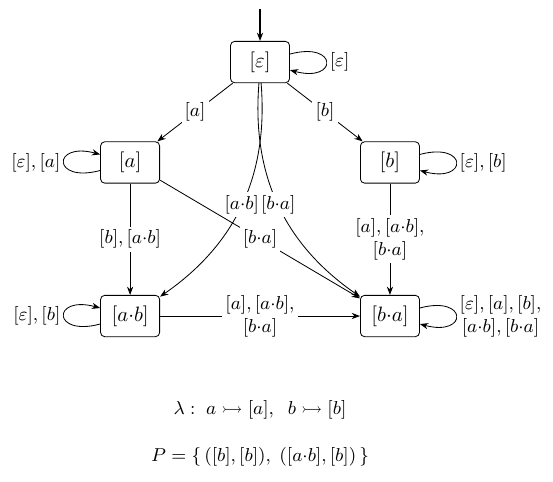
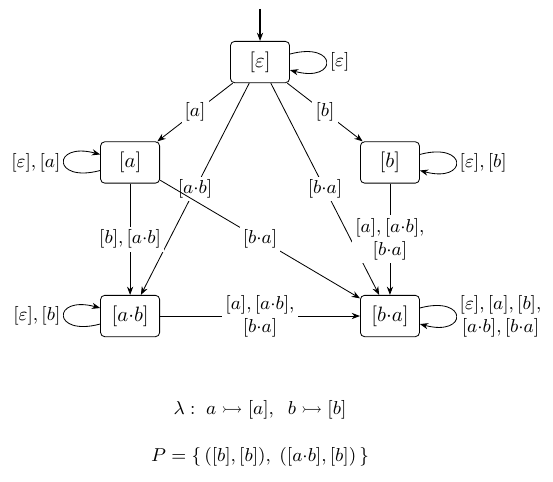
viz: a detour is for a node standing ON the line, and it is a bezier
The grazing rule was too broad: any arrow passing near any node bent, which bent
figures that had nothing wrong with them. An arrow detours only when its endpoints
share a row or a column and a third node of that row/column lies strictly BETWEEN
them -- a node it would run through, not one it passes by. F0/F1/F2 now detour
nothing; F3 detours three arrows.

The detour itself is a bezier, not a bend: it leaves the source outward (away from
the middle of the figure), runs parallel to the row or column it skips, and dives
back in at the target -- out=in on the same heading, so both turns stay gentle.
Looseness is how far out it swings; an anti-parallel pair takes two values so its
arcs do not coincide.

sos_core_figs F1: nodes spread wider (columns 0/3.4/6.8, rows 1.2/-2.4) -- the full
table's labels needed the room.

diff --git a/sosl/sosl/sos/viz/tikz.py b/sosl/sosl/sos/viz/tikz.py
@@ -36,12 +36,13 @@ LOOP_DIRS: Tuple[Tuple[str, Tuple[float, float]], ...] = (
 CROWD_CM = 2.6
 # How far an anti-parallel pair of arrows bends apart (both bend left).
 BEND_ANGLE = 15
-# A straight arrow passing within this of a THIRD node (cm) runs over that node, or
-# over its self-loop and label; it is bent around instead. Half a node box plus the
-# room a loop and its label take on the far side of it.
-CLEAR_CM = 1.3
-# How far such an arrow arcs out to clear the node it would otherwise cross.
-DETOUR_ANGLE = 30
+# Two nodes count as sharing a row / a column when their y / x differ by less than
+# this (cm) — coordinates are hand-rounded, so exact equality is too strict.
+ALIGN_CM = 0.3
+# How far out a detour swings: the `looseness` of its bezier. An anti-parallel pair
+# of detours takes the two values, so the arcs do not lie on top of each other.
+LOOSENESS = 1.7
+LOOSENESS_FAR = 2.5
 # How far under the lowest node the P caption sits (cm).
 PAIRS_DROP_CM = 1.3
 # Extra drop when a bottom node's self-loop hangs below it: the loop and its label
@@ -123,35 +124,42 @@ def _loop_dir(fig: Figure, pos: Placement, cls: int) -> str:
     return sorted(scored)[0][2]
 
 
-def _detour(fig: Figure, pos: Placement, src: int, dst: int) -> Optional[str]:
-    """The `bend` option an arrow needs to clear a THIRD node it would otherwise run
-    across, or None when its straight line is free.
-
-    A node blocks when it sits within `CLEAR_CM` of the segment and *between* the
-    endpoints (its projection falls strictly inside them — a node behind either end
-    is not in the way). The arrow arcs away from it: TikZ bends left towards the
-    left of the direction of travel, so a blocker on the left is passed by bending
-    right, and vice versa. The nearest blocker decides."""
+def _blocked(fig: Figure, pos: Placement, src: int, dst: int) -> bool:
+    """Is a node sitting ON the straight line between ``src`` and ``dst``? Only the
+    aligned case counts — the two share a row or a column (to `ALIGN_CM`) and a third
+    node of that row/column lies strictly between them. That is a node the arrow
+    would run *through*; an arrow merely passing near one is left alone."""
     (px, py), (qx, qy) = pos[src], pos[dst]
-    ux, uy = qx - px, qy - py
-    span = (ux * ux + uy * uy) ** 0.5
-    if span == 0:
-        return None
-    blockers: List[Tuple[float, float]] = []          # (distance, side)
+    same_row, same_col = abs(py - qy) < ALIGN_CM, abs(px - qx) < ALIGN_CM
+    if not (same_row or same_col):
+        return False
     for nd in fig.nodes:
         if nd.cls in (src, dst):
             continue
-        vx, vy = pos[nd.cls][0] - px, pos[nd.cls][1] - py
-        along = (vx * ux + vy * uy) / span            # projection onto the segment
-        if not 0.0 < along < span:
-            continue
-        cross = (ux * vy - uy * vx) / span            # signed distance, + = left
-        if abs(cross) < CLEAR_CM:
-            blockers.append((abs(cross), cross))
-    if not blockers:
-        return None
-    _, cross = min(blockers)
-    return f"bend {'right' if cross > 0 else 'left'}={DETOUR_ANGLE}"
+        x, y = pos[nd.cls]
+        if same_row and abs(y - py) < ALIGN_CM and min(px, qx) < x < max(px, qx):
+            return True
+        if same_col and abs(x - px) < ALIGN_CM and min(py, qy) < y < max(py, qy):
+            return True
+    return False
+
+
+def _detour(fig: Figure, pos: Placement, src: int, dst: int, far: bool) -> str:
+    """The `to[...]` option of an arrow that must go around a node standing between
+    its endpoints: a bezier that leaves the source *outward* (away from the middle of
+    the figure), runs parallel to the row or column it is skipping, and dives back in
+    at the target. Leaving and arriving on the same outward heading is what keeps the
+    two turns gentle; `looseness` is how far out the arc swings, and an anti-parallel
+    pair takes the two values so its arcs do not coincide."""
+    cx = sum(p[0] for p in pos.values()) / len(pos)
+    cy = sum(p[1] for p in pos.values()) / len(pos)
+    (px, py), (qx, qy) = pos[src], pos[dst]
+    if abs(py - qy) < ALIGN_CM:                       # a row: swing above or below
+        angle = 90 if py >= cy else -90
+    else:                                             # a column: swing left or right
+        angle = 180 if px <= cx else 0
+    loose = LOOSENESS_FAR if far else LOOSENESS
+    return f"out={angle},in={angle},looseness={loose}"
 
 
 def _arrows(fig: Figure) -> "List[Arrow]":
@@ -248,14 +256,19 @@ def tikz_of(fig: Figure, pos: Placement, provenance: str, pairs: bool = True,
     out.append("")
 
     loops = loops or {}
+    rank = {nd.cls: i for i, nd in enumerate(fig.nodes)}
     for ar in _arrows(fig):
         if ar.is_loop:
             via = f"[{loops.get(ar.src) or _loop_dir(fig, pos, ar.src)}]"
+        elif _blocked(fig, pos, ar.src, ar.dst):
+            # a node stands between the endpoints: go around it, the back arrow of an
+            # anti-parallel pair swinging wider so the two arcs stay apart
+            far = ar.bend and rank[ar.src] > rank[ar.dst]
+            via = f"[{_detour(fig, pos, ar.src, ar.dst, far)}]"
         elif ar.bend:                    # anti-parallel: both bend left, splitting
             via = f"[bend left={BEND_ANGLE}]"
-        else:                            # straight, unless a third node is in the way
-            detour = _detour(fig, pos, ar.src, ar.dst)
-            via = f"[{detour}]" if detour else ""
+        else:
+            via = ""
         src, dst = fig.node_of(ar.src).ident, fig.node_of(ar.dst).ident
         out.append(f"  \\draw[arrow] ({src}) to{via} "
                    f"node[lbl] {{{_tex_arrow_label(fig, ar.cols)}}} ({dst});")

diff --git a/research_notes/sos_core_figs/sources/core_F1_gf_aa.tex b/research_notes/sos_core_figs/sources/core_F1_gf_aa.tex
@@ -16,18 +16,18 @@
   pairs/.style     = {anchor=north, font=\small},
 ]
 
-  \node[class] (a) at (0.0,0.9) {$[a]$};
-  \node[class] (b) at (5.2,0.9) {$[b]$};
-  \node[class] (aa) at (0.0,-1.7) {$[a{\cdot}a]$};
-  \node[class] (ab) at (2.6,0.9) {$[a{\cdot}b]$};
-  \node[class] (ba) at (5.2,-1.7) {$[b{\cdot}a]$};
+  \node[class] (a) at (0.0,1.2) {$[a]$};
+  \node[class] (b) at (6.8,1.2) {$[b]$};
+  \node[class] (aa) at (0.0,-2.4) {$[a{\cdot}a]$};
+  \node[class] (ab) at (3.4,1.2) {$[a{\cdot}b]$};
+  \node[class] (ba) at (6.8,-2.4) {$[b{\cdot}a]$};
 
   \draw[arrow] (a) to node[lbl] {$[a],[a{\cdot}a],$\\$[a{\cdot}b]$} (aa);
   \draw[arrow] (a) to[bend left=15] node[lbl] {$[b]$} (ab);
   \draw[arrow] (a) to[loop left] node[lbl] {$[b{\cdot}a]$} (a);
   \draw[arrow] (b) to[bend left=15] node[lbl] {$[a],[b{\cdot}a]$} (ba);
   \draw[arrow] (b) to[loop right] node[lbl] {$[b],[a{\cdot}b]$} (b);
-  \draw[arrow] (b) to[bend left=30] node[lbl] {$[a{\cdot}a]$} (aa);
+  \draw[arrow] (b) to node[lbl] {$[a{\cdot}a]$} (aa);
   \draw[arrow] (aa) to[loop left] node[lbl] {$[a],[b],$\\$[a{\cdot}a],[a{\cdot}b],$\\$[b{\cdot}a]$} (aa);
   \draw[arrow] (ab) to[bend left=15] node[lbl] {$[a],[b{\cdot}a]$} (a);
   \draw[arrow] (ab) to[loop right] node[lbl] {$[b],[a{\cdot}b]$} (ab);
@@ -36,7 +36,7 @@
   \draw[arrow] (ba) to[bend left=15] node[lbl] {$[b]$} (b);
   \draw[arrow] (ba) to[loop right] node[lbl] {$[b{\cdot}a]$} (ba);
 
-  \node[pairs] at (2.6,-3.0) {$\lambda:\; a \rightarrowtail [a],\;\; b \rightarrowtail [b]$};
-  \node[pairs] at (2.6,-3.8) {$P = \{\, ([a{\cdot}a],[a{\cdot}a]) \,\}$};
+  \node[pairs] at (3.4,-3.7) {$\lambda:\; a \rightarrowtail [a],\;\; b \rightarrowtail [b]$};
+  \node[pairs] at (3.4,-4.5) {$P = \{\, ([a{\cdot}a],[a{\cdot}a]) \,\}$};
 \end{tikzpicture}
 \end{document}

diff --git a/research_notes/sos_core_figs/sources/core_F3_evenblocks.tex b/research_notes/sos_core_figs/sources/core_F3_evenblocks.tex
@@ -27,20 +27,20 @@
   \draw[arrow] (a) to[bend left=15] node[lbl] {$[a]$} (aa);
   \draw[arrow] (a) to node[lbl] {$[b]$} (ab);
   \draw[arrow] (a) to[loop above] node[lbl] {$[a{\cdot}a]$} (a);
-  \draw[arrow] (a) to[bend left=30] node[lbl] {$[a{\cdot}b]$} (b);
-  \draw[arrow] (a) to[bend left=30] node[lbl] {$[b{\cdot}a]$} (aba);
-  \draw[arrow] (a) to[bend right=30] node[lbl] {$[a{\cdot}b{\cdot}a]$} (ba);
+  \draw[arrow] (a) to[out=90,in=90,looseness=1.7] node[lbl] {$[a{\cdot}b]$} (b);
+  \draw[arrow] (a) to[out=180,in=180,looseness=1.7] node[lbl] {$[b{\cdot}a]$} (aba);
+  \draw[arrow] (a) to node[lbl] {$[a{\cdot}b{\cdot}a]$} (ba);
   \draw[arrow] (a) to node[lbl] {$[b{\cdot}a{\cdot}b]$} (bab);
   \draw[arrow] (b) to[bend left=15] node[lbl] {$[a],[b{\cdot}a]$} (ba);
   \draw[arrow] (b) to[loop above] node[lbl] {$[b],[a{\cdot}a]$} (b);
-  \draw[arrow] (b) to[bend left=30] node[lbl] {$[a{\cdot}b],$\\$[a{\cdot}b{\cdot}a],$\\$[b{\cdot}a{\cdot}b]$} (bab);
+  \draw[arrow] (b) to[out=0,in=0,looseness=1.7] node[lbl] {$[a{\cdot}b],$\\$[a{\cdot}b{\cdot}a],$\\$[b{\cdot}a{\cdot}b]$} (bab);
   \draw[arrow] (aa) to[bend left=15] node[lbl] {$[a]$} (a);
   \draw[arrow] (aa) to node[lbl] {$[b]$} (b);
   \draw[arrow] (aa) to[loop above] node[lbl] {$[a{\cdot}a]$} (aa);
   \draw[arrow] (aa) to node[lbl] {$[a{\cdot}b]$} (ab);
   \draw[arrow] (aa) to node[lbl] {$[b{\cdot}a]$} (ba);
-  \draw[arrow] (aa) to[bend left=30] node[lbl] {$[a{\cdot}b{\cdot}a]$} (aba);
-  \draw[arrow] (aa) to[bend right=30] node[lbl] {$[b{\cdot}a{\cdot}b]$} (bab);
+  \draw[arrow] (aa) to node[lbl] {$[a{\cdot}b{\cdot}a]$} (aba);
+  \draw[arrow] (aa) to node[lbl] {$[b{\cdot}a{\cdot}b]$} (bab);
   \draw[arrow] (ab) to[bend left=15] node[lbl] {$[a],[b{\cdot}a]$} (aba);
   \draw[arrow] (ab) to[loop left] node[lbl] {$[b],[a{\cdot}a]$} (ab);
   \draw[arrow] (ab) to node[lbl] {$[a{\cdot}b],$\\$[a{\cdot}b{\cdot}a],$\\$[b{\cdot}a{\cdot}b]$} (bab);

diff --git a/research_notes/sos_core_figs/sources/core_F0_astar_bomega.tex b/research_notes/sos_core_figs/sources/core_F0_astar_bomega.tex
@@ -28,8 +28,8 @@
   \draw[arrow] (eps) to[loop right] node[lbl] {$[\varepsilon]$} (eps);
   \draw[arrow] (eps) to node[lbl] {$[a]$} (a);
   \draw[arrow] (eps) to node[lbl] {$[b]$} (b);
-  \draw[arrow] (eps) to[bend left=30] node[lbl] {$[a{\cdot}b]$} (ab);
-  \draw[arrow] (eps) to[bend right=30] node[lbl] {$[b{\cdot}a]$} (ba);
+  \draw[arrow] (eps) to node[lbl] {$[a{\cdot}b]$} (ab);
+  \draw[arrow] (eps) to node[lbl] {$[b{\cdot}a]$} (ba);
   \draw[arrow] (a) to[loop left] node[lbl] {$[\varepsilon],[a]$} (a);
   \draw[arrow] (a) to node[lbl] {$[b],[a{\cdot}b]$} (ab);
   \draw[arrow] (a) to node[lbl] {$[b{\cdot}a]$} (ba);

diff --git a/research_notes/sos_core_figs/sources/core_F0_astar_bomega_gen.tex b/research_notes/sos_core_figs/sources/core_F0_astar_bomega_gen.tex
@@ -28,7 +28,7 @@
   \draw[arrow] (eps) to[loop above] node[lbl] {$[\varepsilon]$} (eps);
   \draw[arrow] (eps) to node[lbl] {$[a]$} (a);
   \draw[arrow] (eps) to node[lbl] {$[b]$} (b);
-  \draw[arrow] (eps) to[bend left=30] node[lbl] {$[a{\cdot}b]$} (ab);
+  \draw[arrow] (eps) to node[lbl] {$[a{\cdot}b]$} (ab);
   \draw[arrow] (eps) to node[lbl] {$[b{\cdot}a]$} (ba);
   \draw[arrow] (a) to[loop above] node[lbl] {$[\varepsilon],[a]$} (a);
   \draw[arrow] (a) to node[lbl] {$[b],[a{\cdot}b]$} (ab);

diff --git a/research_notes/sos_core_figs/sources/core_F1_gf_aa_gen.tex b/research_notes/sos_core_figs/sources/core_F1_gf_aa_gen.tex
@@ -32,7 +32,7 @@
   \draw[arrow] (ab) to[bend left=15] node[lbl] {$[a],[b{\cdot}a]$} (a);
   \draw[arrow] (ab) to[loop above] node[lbl] {$[b],[a{\cdot}b]$} (ab);
   \draw[arrow] (ab) to node[lbl] {$[a{\cdot}a]$} (aa);
-  \draw[arrow] (ba) to[bend left=30] node[lbl] {$[a],[a{\cdot}a],$\\$[a{\cdot}b]$} (aa);
+  \draw[arrow] (ba) to[out=-90,in=-90,looseness=1.7] node[lbl] {$[a],[a{\cdot}a],$\\$[a{\cdot}b]$} (aa);
   \draw[arrow] (ba) to[bend left=15] node[lbl] {$[b]$} (b);
   \draw[arrow] (ba) to[loop above] node[lbl] {$[b{\cdot}a]$} (ba);
 

diff --git a/research_notes/sos_core_figs/sources/core_F3_evenblocks_gen.tex b/research_notes/sos_core_figs/sources/core_F3_evenblocks_gen.tex
@@ -38,7 +38,7 @@
   \draw[arrow] (aa) to node[lbl] {$[b]$} (b);
   \draw[arrow] (aa) to[loop above] node[lbl] {$[a{\cdot}a]$} (aa);
   \draw[arrow] (aa) to node[lbl] {$[a{\cdot}b]$} (ab);
-  \draw[arrow] (aa) to[bend left=30] node[lbl] {$[b{\cdot}a]$} (ba);
+  \draw[arrow] (aa) to[out=90,in=90,looseness=1.7] node[lbl] {$[b{\cdot}a]$} (ba);
   \draw[arrow] (aa) to node[lbl] {$[a{\cdot}b{\cdot}a]$} (aba);
   \draw[arrow] (aa) to node[lbl] {$[b{\cdot}a{\cdot}b]$} (bab);
   \draw[arrow] (ab) to[bend left=15] node[lbl] {$[a],[b{\cdot}a]$} (aba);